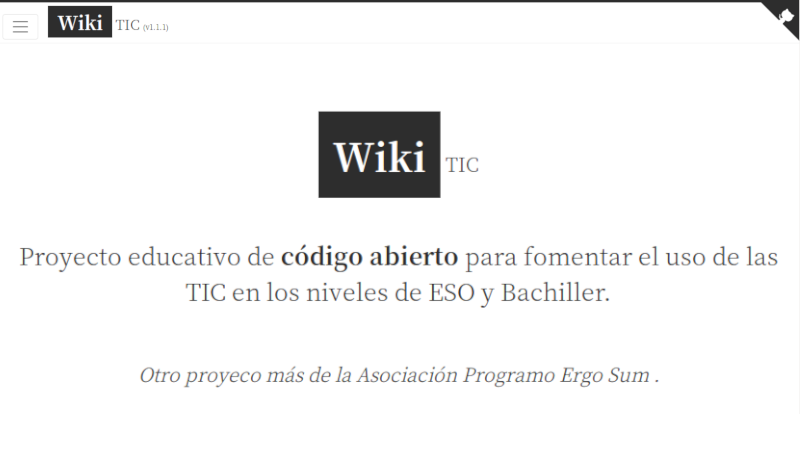
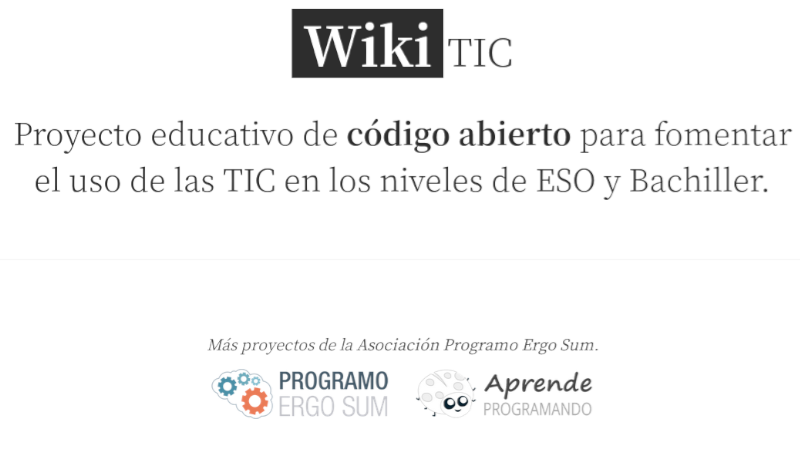
Update index

diff --git a/pages/index.vue b/pages/index.vue
@@ -11,12 +11,18 @@
           <p class="lead">
             Proyecto educativo de <strong>código abierto</strong> para fomentar el uso de las TIC en los niveles de ESO y Bachiller.
           </p>
+          <hr>
           <p class="italic">
-            Otro proyeco más de la
-            <b-link href="https://www.programoergosum.com" target="_blank" rel="noopener noreferrer">
-              Asociación Programo Ergo Sum
-            </b-link>.
+            Más proyectos de la <strong>Asociación Programo Ergo Sum</strong>.
           </p>
+          <div>
+            <b-link href="https://www.programoergosum.com" target="_blank" rel="noopener noreferrer">
+              <img src="logo-programoergosum.png" alt="Programo Ergo Sum">
+            </b-link>
+            <b-link href="https://www.aprendeprogramando.es" target="_blank" rel="noopener noreferrer">
+              <img src="logo-aprendeprogramando.png" alt="Aprende Programando">
+            </b-link>
+          </div>
         </b-col>
       </b-row>
     </b-container>
@@ -64,9 +70,17 @@ export default {
       font-weight: 600;
     }
   }
+  hr {
+    margin-top: 75px;
+    padding-top: 75px;
+    border-top: 1px solid #f0f0f0;
+  }
   .italic {
-    margin-top: 50px;
     font-style: italic;
+  }
+  img {
+    max-width: 230px;
+    margin: 0 15px;
   }
 }
 @media (max-width: 1300px) {
@@ -80,7 +94,7 @@ export default {
       }
     }
     .lead {
-      font-size: 25px;
+      font-size: 35px;
     }
   }
 }
